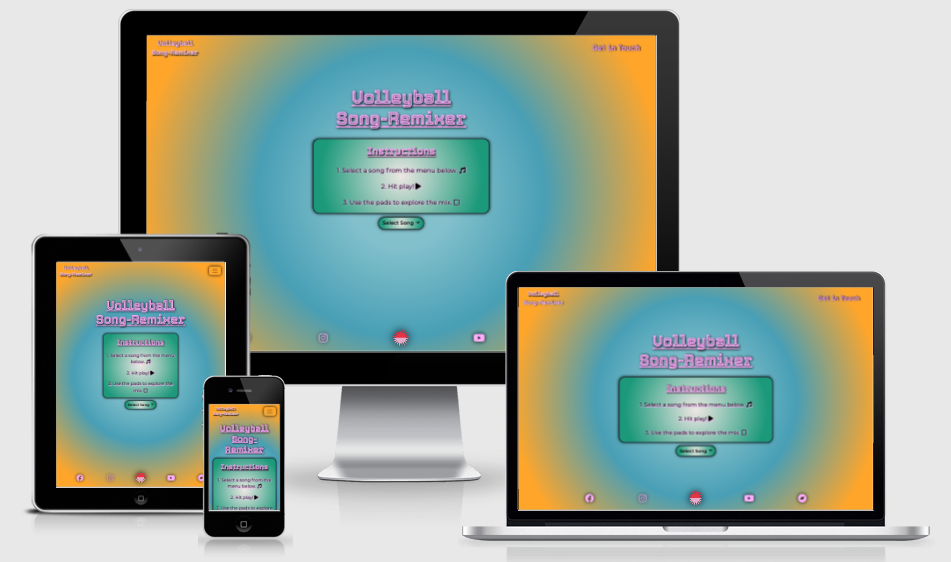
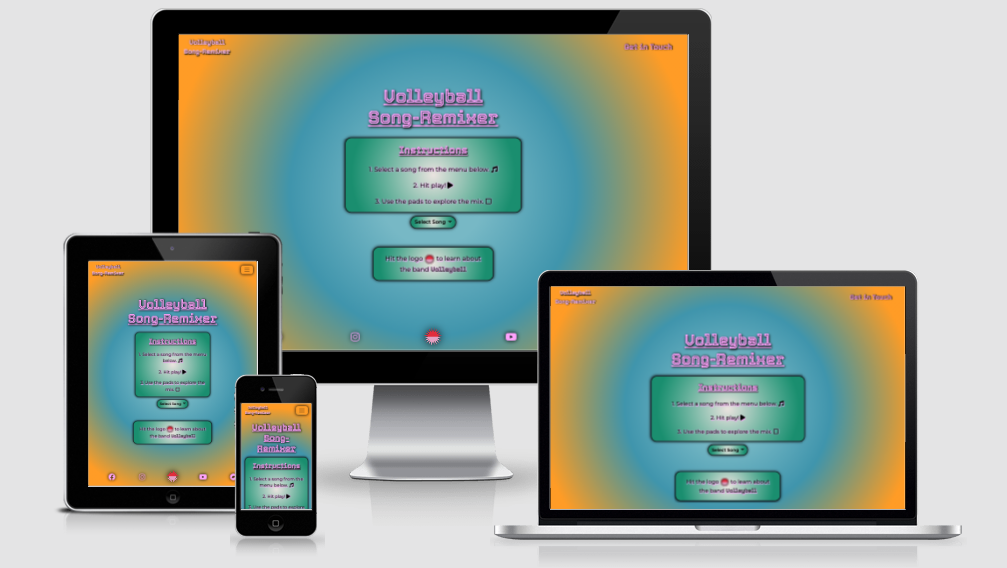
update readme.md

diff --git a/contact.html b/contact.html
@@ -8,6 +8,8 @@
     <meta name="description"
         content="Interactive song remixer website promoting the songs of the London-based band Volleyball.">
 
+    <link rel="icon" type="image/png" href="assets/images/VB-Sun-ALOOSHsmall.png">
+
     <link rel="stylesheet" href="https://cdn.jsdelivr.net/npm/bootstrap@4.5.3/dist/css/bootstrap.min.css"
         integrity="sha384-TX8t27EcRE3e/ihU7zmQxVncDAy5uIKz4rEkgIXeMed4M0jlfIDPvg6uqKI2xXr2" crossorigin="anonymous">
     <link rel="stylesheet" href="https://cdnjs.cloudflare.com/ajax/libs/font-awesome/5.15.3/css/all.min.css"
@@ -15,15 +17,6 @@
     <link rel="stylesheet" href="assets/css/style.css" />
 
     <title>Song Remixer</title>
-
-    <script type="text/javascript" src="https://cdn.jsdelivr.net/npm/emailjs-com@3/dist/email.min.js"></script>
-    <script type="text/javascript">
-        (function () {
-            emailjs.init("user_xbEcrwE7C7jVcaZquFEUh");
-            // emailjs.send("timMorrisDev", "SongRemixerContact", { from_name: "Tim", from_email: "test@test.com" });
-        })();
-    </script>
-
 </head>
 
 <body class="landing-theme">

diff --git a/assets/css/style.css b/assets/css/style.css
@@ -5,6 +5,13 @@
 * Browsers: last 4 version
 */
 
+/*
+* Prefixed by https://autoprefixer.github.io
+* PostCSS: v8.3.6,
+* Autoprefixer: v10.3.1
+* Browsers: last 4 version
+*/
+
 /*---------------------------------Import google fonts */
 
 @import url('https://fonts.googleapis.com/css2?family=Montserrat:wght@300;400;500;600&family=Tourney:wght@300;400;500;600;700&family=Roboto&display&display=swap');
@@ -303,6 +310,8 @@ h3,
     height: -webkit-fit-content;
     height: -moz-fit-content;
     height: fit-content;
+    width: -webkit-fit-content;
+    width: -moz-fit-content;
     width: fit-content;
     border: 2px solid black;
     border-radius: 20px;
@@ -321,6 +330,7 @@ h3,
 .band-info img {
     height: 2rem;
     width: 2rem;
+    -webkit-filter: drop-shadow(0px 0px 1px #000);
     filter: drop-shadow(0px 0px 1px #000);
 }
 

diff --git a/assets/js/songRemixer.js b/assets/js/songRemixer.js
@@ -603,7 +603,7 @@ function buildPadsArea(song) {
             setTimeout(function () {
                 $('#clearMutes').tooltip('hide');
                 $('#clearMutes').tooltip('disable');
-            }, 7000);
+            }, 8000);
 
         } else {
             // display 'loading' text if audio not loaded.

diff --git a/README.md b/README.md
@@ -3,7 +3,7 @@ ___
 ![Responsive Mockup of site](assets/ux/screengrabs/responsiveMockup.png)
 
 
-## Project Synopsis
+# Project Synopsis
 
 Song remixer game using music by the band Volleyball. The user can choose from several songs and mute or hear a variety of instruments to create unique arrangements of the tracks.
 
@@ -11,21 +11,30 @@ Song remixer game using music by the band Volleyball. The user can choose from s
 [See the live site here!](https://timmorrisdev.github.io/MS2-song-remixer/)
 
 ___
-## User Experience (UX)
+# User Experience (UX)
 
-### User Stories
+## User Stories
 
+### Users familiar with the band
 - I want to easily understand the game and how to play.
 - I want to remix different songs by bringing elements of the track in and out.
 - The site should be visually appealing and well laid out, with different colour themes for each song.
-- I want to be able to connect with the band featured on their social media and own website.
 
-### Business Goals
+
+### Users unfamiliar with the band
+
+- I want to discover the music of the band Volleyball.
+- I want to be able to connect with the band featured on their social media, and find out more about them on their own website.
+
+## Business Goals
 
 - To allow fans the opportunity to create their own versions of the bands songs.
 - To drive traffic to the band's social media and website to increase fan engagement.
+- To promote a new song release by offereing fan engagement.
+- To gather any feedback from the users about the music or the game.
+- For the users to have fun and enjoy the music!
 
-### Design
+## Design
 
 - Colour Scheme
 
@@ -49,6 +58,23 @@ ___
     - [Landing / Game Page](https://github.com/TimMorrisDev/MS2-song-remixer/blob/main/assets/ux/wireframes/Home.pdf)
 
     - [Contact Us](https://github.com/TimMorrisDev/MS2-song-remixer/blob/main/assets/ux/wireframes/contact.pdf)
+
+## Design decisions different to wireframes
+- Landing page / instructions
+
+    I initially build the site to laod the game area right away. Although as a regular user of music software it wasclear what I was looking at, I decided that I could make the object of the game clearer by including a simple set of instructions to the user to prompt an action to build the game area. 
+
+- Landing page / band info section
+
+    Although I am familiar with the band featured, I decided to add a small feature to the landing page introducting the user to the band's logo by way of offering instruction to 'hit the logo to learn about the band'.
+
+- Light / Dark mode
+    I added the option for the user to change the colour theme of the game area to add more interactivity and enjoyment when playing the game.
+
+- Additional buttons in transport bar
+    In development I wanted to be able to offer the user 'global' control over muting or un-muting the pads. I chose to do this with a reset button, and used a tool tip to display its alternative function when the game area is built.
+
+    I also decided to offer the user a more detailed guide to all of the features of the game if they wanted to clarify anything they did not understand during gameplay.
    
 ## Features
 ### Landing page / instructions
@@ -58,7 +84,14 @@ This page is designed to clearly guide the user through the basic instructions f
 ### Song selector
 The song selector button allows the user to pick between the two songs 'Aloosh' and 'Escape'. This action delivers the song information to songRemixer.JS, which is used to determine the parameters of most functions across the site. 
 
+
 ![song selector screengrab](assets/ux/screengrabs/song-selector.png)
+
+### Band info
+
+This display provides the user with the information that 'Volleyball' is the band whose music is the content of the game. Also that the star image is the bands logo and a link to their website if further information is desired.
+
+![band-info screengrab](assets/ux/screengrabs/band-info.png)
 ### Game view
 The main game view is comprised of easy-to-read pads that allow the user to manipulate what instruments are being heard in the song.
 
@@ -80,8 +113,6 @@ I included a contact page on the site so that I can gather any feedback from the
 - Responsive across all devices and screen sizes.
 - Adaptive to modify content shown to be appropriate for user device or screen size.
 
-### Design Decisions Made During Development
-
 ### Future Development Opportunities
 - Recording of arrangements
 
@@ -92,13 +123,13 @@ I included a contact page on the site so that I can gather any feedback from the
     I would like to include the ability to further manipulate the different parts of each song. Perhaps adding individual volume / EQ / reverb settings. This could be a 'paid' feature to allow the band to generate revenue with the app.
 
 ___
-## Technologies Used
-### Languages Used
+# Technologies Used
+## Languages Used
 - [HTML5](https://en.wikipedia.org/wiki/HTML5)
 - [CSS3](https://en.wikipedia.org/wiki/CSS)
 - [JavaScript](https://www.javascript.com/)
 
-### Frameworks, Libraries & Programs Used
+## Frameworks, Libraries & Programs Used
 - [HowlerJS](https://howlerjs.com/)
     - HowlerJS was used to intergrate audio on the site. It utilises mostly the web audio API with fall back to HMTL5 audio where compatibility is an issue. I chose to use audiosprites for each song as I kept my file management neater and helped assure simultainious playback for each element of the song arrangements.
 
@@ -138,23 +169,23 @@ ___
     - Used to check responsiveness acorss differenct device sizes. 
 
 ___
-## Testing
-### Responsiveness Testing
+# Testing
+## Responsiveness Testing
 I used google dev tools throughout the development process to check responsiveness across different screen sizes. 
 
 I was also sure to deploy the site to GitHub pages early in development to allow for review of the live site on various devices throughout the process.
 
-### W3C Markup, CSS Validation & JSHint Validation
+## W3C Markup, CSS Validation & JSHint Validation
 I used the W3C Markup, CSS Validator and JSHint Validator Services to check and validate each page throughout the site to check for errors. 
-#### [Markup Validation Service](https://validator.w3.org/)
+### [Markup Validation Service](https://validator.w3.org/)
 The validator found the following issues for me to address.
 - Element hr not allowed as child of element ol in this context.
     - This was due to my nesting of hr elements within my game-instruction modal unordered list. I modified my code to include 'border-bottom' styling for each list item to rectify the issue.
 
-#### [CSS Validation Service](https://jigsaw.w3.org/css-validator/)
+### [CSS Validation Service](https://jigsaw.w3.org/css-validator/)
 My CSS file style.css passed through the w3 validator with no errors.
 
-#### [JSHint Validation Service](https://jshint.com/)
+### [JSHint Validation Service](https://jshint.com/)
 The validator found the folowing warnings for me to address. 
 - 'Function declarations should not be placed in blocks. Use a function expression or move the statement to the top of the outer function.'
     - This was caused by my addition of a setTimeout function to the buildPads function to allow for the 'cascading' effect while the pads are populating the game area. I had not removed the original function from within the setTimeout, which was now not needed. 
@@ -168,7 +199,7 @@ The validator found the folowing warnings for me to address.
 - One unused variable - stopBtn.
     - At the top of my code, I have declared variables for various DOM elements I was likely to need to reference throughout the project. I had not needed to reference stopBtn and therefore it needed to be removed to pass validation.
 
-### Lighthouse Testing
+## Lighthouse Testing
 Lighthouse testing on the main website game page found the following issues.
 - 'Links do not have a discernible name'.
     - I am using icons in my footer links and therefore had no text to acy as description. This was solved by adding the 'aria-label' attribute to each anchor tag with a short description. 
@@ -186,7 +217,7 @@ Contact page.
 
 ![contact page lighthouse](assets/ux/screengrabs/contact-lighthouse.png)
 
-### Testing UX user stories
+## Testing UX user stories
 
 - I want to easily understand the game and how to play.
     - There are clear and simple instructions presented on the landing page. 
@@ -209,13 +240,30 @@ Contact page.
 
     ![escape dark mode](assets/ux/screengrabs/escape-dark.png)
 
-- I want to be able to connect with the band featured on their social media and own website.
-    - Link to the bands social media pages, as well as their website were clear and easy to find in the footer of the page.
+- I want to discover the music of the band Volleyball.
+    - The game offers two different songs for the user to explore and play with. The starting state is for all pads to heard and therefore giving the user the full experience of the song before exploring.
+
+    ![songs screengrab](assets/ux/screengrabs/songs.png)
+
+- I want to be able to connect with the band featured on their social media, and find out more about them on their own website.
+    - Link to the bands social media pages, as well as their website were clear and easy to find in the footer of the page. The section on the home page clearly explained that Volleyball is the band featured and their logo links to their website.
+
+    ![band info screengrab](assets/ux/screengrabs/band-info.png)
     ![footer links](assets/ux/screengrabs/page-footer.png)
 
-### Peer Code Review
+## Testing Business Goals
 
-### Cross-Browser/Device Testing
+More data would need to be collected on an ongoing basis to establish the success of the business goals relating to driving traffic to social media pages or increasing exposure of new song releases. 
+
+My user feedback and peer-review so far at least tells me that I have created a game that is fun and engaging to play, which allows the user to experience the bands music in a new and exciting way.
+
+## Peer Code Review
+
+I submitted this project to the 'peer-code-review' Slack channel on Monday 11th August to collect user feedback. 
+
+I receieved several positive reactions to the site but did not get any comments to highlight any issues or negative user experience. I will leave the site active on this channel and collect any data for possible future development.
+
+## Cross-Browser/Device Testing
 I tested the site across multiple devices using different browsers.
 - Browsers tested
     - Chrome
@@ -228,28 +276,28 @@ I tested the site across multiple devices using different browsers.
     - iPhone 12
     - iPad air 2
 
-### Known Bugs
+## Known Bugs / Issues
 - 'The AudioContext was not allowed to start. It must be resumed (or created) after a user gesture on the page (howler.core.min.js:2)'
     - This issue is being shown as a warning in the google dev tools console. After researching the issue, I found that even though I am not implimenting any auto-play of audio on the site, the library HowlerJS is initialising audio contexts as part of its code. This is recognised as a play event by google dev tools even though it is not actually beginning playback of any audio. I found several posts on Stack Overflow where people had experienced the same warnings and it appears to be an error on google's side. 
     I found [this Stack Overflow article](https://stackoverflow.com/questions/66801354/web-audio-api-the-audiocontext-was-not-allowed-to-start-it-must-be-resumed-o) where people were experiencing the same issue.
 
     ![Article screengrab](assets/ux/screengrabs/bug-answer-screengrab.png)
 ___
-## Deployment
-### GitHub Pages
+# Deployment
+## GitHub Pages
 The project was deployed to GitHub pages using the following method. 
 1. Log in to [GitHub.com](https://github.com/) and locate the [MS2-song-remixer repository](https://github.com/TimMorrisDev/MS2-song-remixer) in my account.
 2. Select the repo 'settings' menu and navigate to the 'pages' tab on the left hand side.
 3. In the 'source' section, select the master branch as the source for the site deployment. 
 4. Hit 'save' and wait a few minutes for GitHub to process. The 'pages' settings tab will now show a message to confirm the repository is being published to the address https://timmorrisdev.github.io/MS2-song-remixer/.
 
-### Forking the repository in GitHub
+## Forking the repository in GitHub
 Forking the repository creates a copy of the original repository in your own account to allow changes to be made without affecting the original repository.
 1. Log in to GitHub and navigate to the GitHub repository page [here](https://github.com/TimMorrisDev/MS2-song-remixer).
 2. In the top-right of the page, below the user avatar, locate the "fork" button.
 3. Click the "fork" button and you should now have a copy of the repository in your own account. 
 
-### Making a Local Clone
+## Making a Local Clone
 Details of how to make a local copy of the GutHub repository can be found [here](https://docs.github.com/en/github/creating-cloning-and-archiving-repositories/cloning-a-repository). To clone using HTTPS follow these steps.
 1. Navigate to the GitHub repository [here](https://github.com/TimMorrisDev/MS2-song-remixer).
 2. Click the "Code" drop-down menu above the list of files.
@@ -260,8 +308,8 @@ Details of how to make a local copy of the GutHub repository can be found [here]
 7. Press enter and your local clone will be created. 
 
 ___
-## Credits
-### Code
+# Credits
+## Code
 - Inspiration for player features and layout from [Traversy Media](https://www.youtube.com/watch?v=QTHRWGn_sJw) and [Junior Developer Central](https://www.youtube.com/watch?v=jZL9gVwxO-U) YouTube videos.
 - Responsive grid for pads taken from [Stack Overflow article](https://stackoverflow.com/questions/46548987/a-grid-layout-with-responsive-squares) and modified to suit the site needs.
 - General information about class constructors and class inheritance from [The Net Ninja 'object oriented JavaScript'](https://www.youtube.com/watch?v=4l3bTDlT6ZI&list=PL4cUxeGkcC9i5yvDkJgt60vNVWffpblB7) YouTube series.
@@ -270,12 +318,12 @@ ___
 - [Stack Overflow](https://stackoverflow.com/), [w3 Schools](https://www.w3schools.com/) & [CSS tricks](https://css-tricks.com/) were used throughout the project to research solutions to site requirements.
 
 
-### Content
+## Content
 - All content written by the developer.
 
 
-### Media
+## Media
 - All music written by, and copyright of the band Volleyball.
 
-### Acknowledgements
+## Acknowledgements
 - Thanks to my mentor, Can Sucullu for all your guidance and support.
